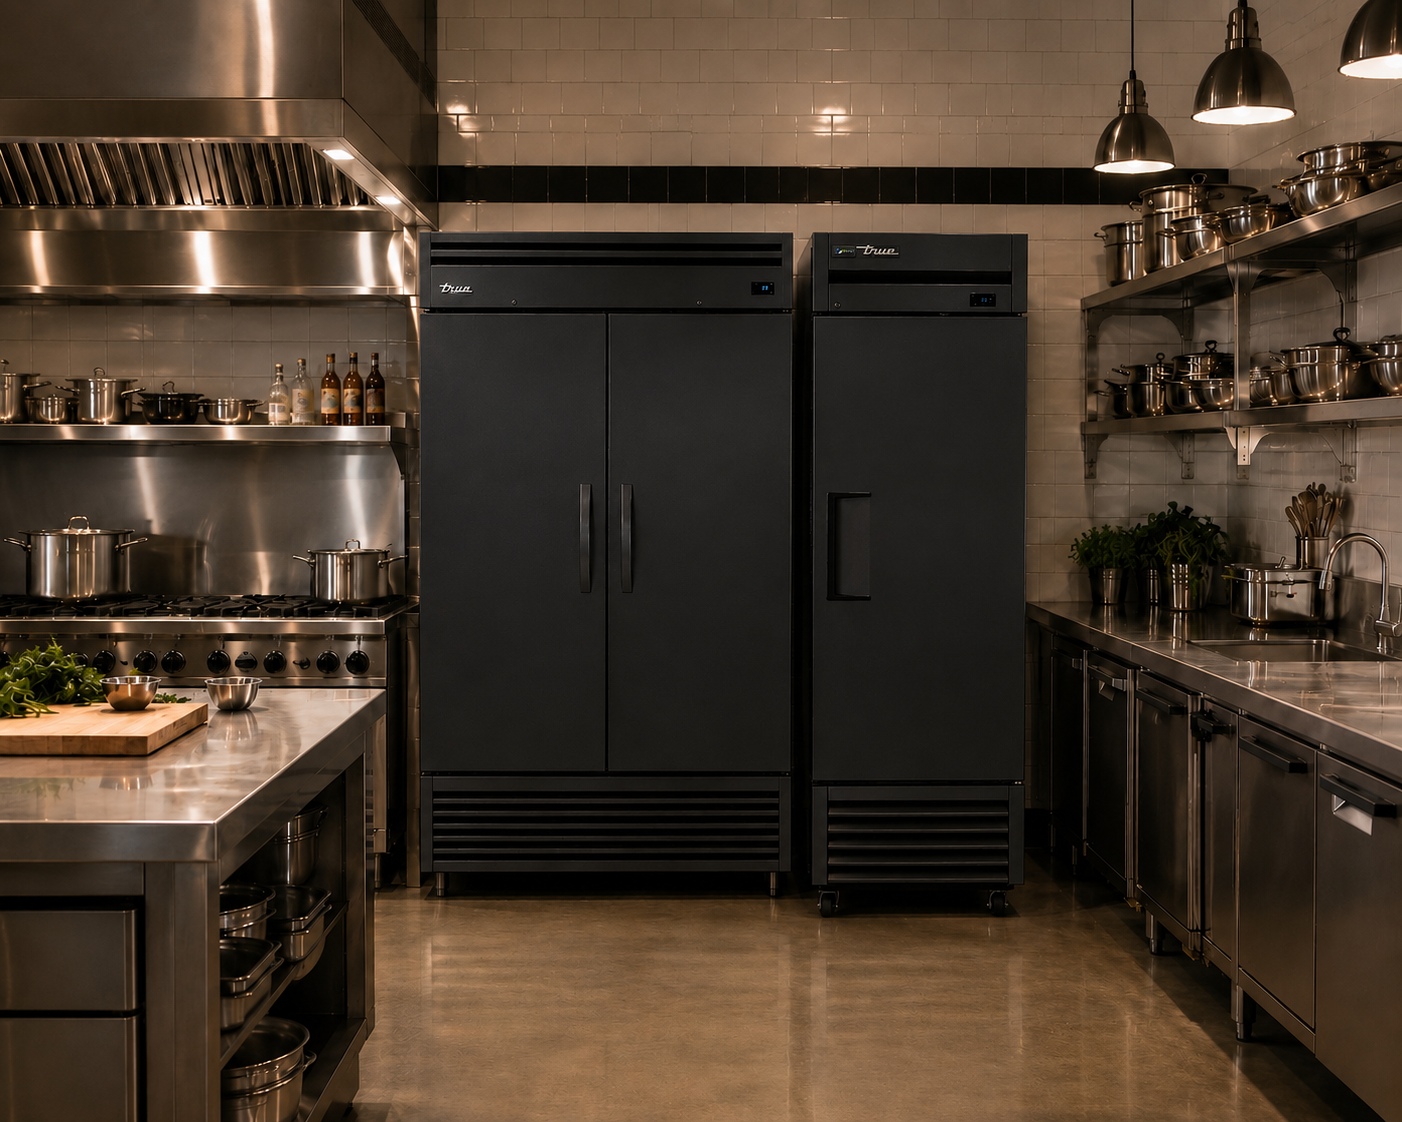
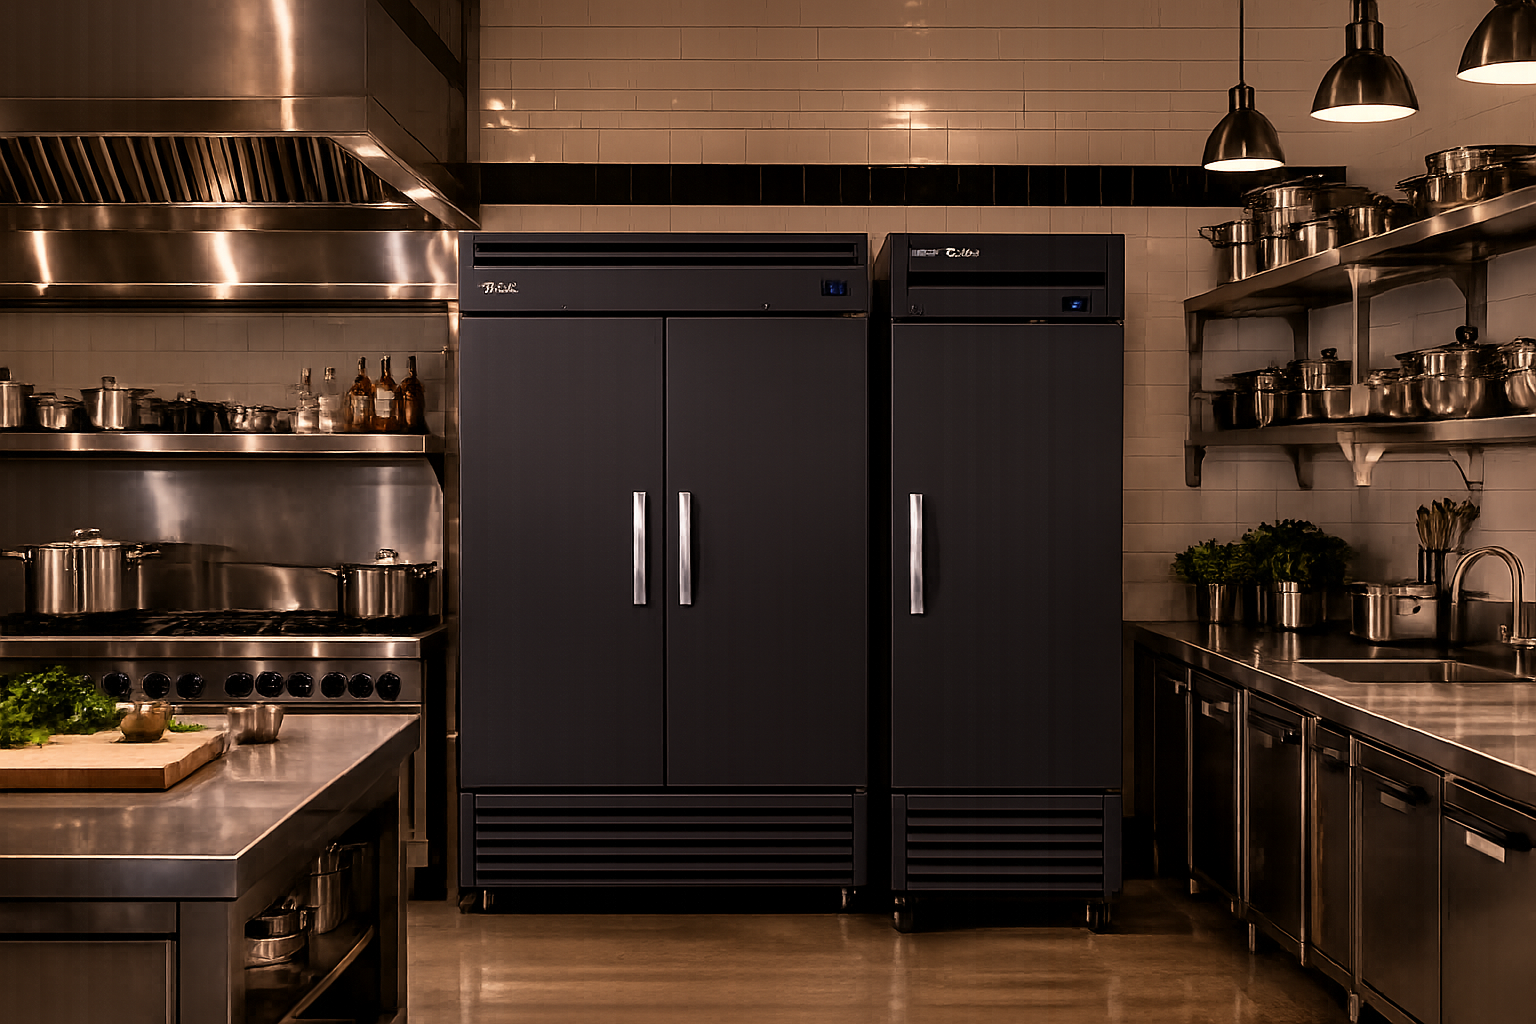
add clarity

diff --git a/main/app/truerefrigeration/page.tsx b/main/app/truerefrigeration/page.tsx
@@ -38,6 +38,7 @@ interface RalColour {
   hex: string;
   border: string;
   img: string;
+  description: string;
 }
 
 interface InquiryFormState {
@@ -130,14 +131,62 @@ const SECTORS: string[] = [
 
 /* ─── RAL COLOURS ─── */
 const RAL_COLOURS: RalColour[] = [
-  { name: "Stainless Steel", hex: STAINLESS_HEX, border: "#8A9BB0", img: "/true-custom.jpeg" },
-  { name: "Green",           hex: "#4E7B4B",      border: "#3A5E38",  img: "/cabinet-green.png"    },
-  { name: "Blue",            hex: "#1F4E8C",      border: "#163870",  img: "/cabinet-blue.png"     },
-  { name: "Pink",            hex: "#E8829A",      border: "#D0607C",  img: "/cabinet-pink.png"     },
-  { name: "Red",             hex: "#C8102E",      border: "#A00E26",  img: "/cabinet-red.png"      },
-  { name: "Orange",          hex: "#E8650A",      border: "#C05206",  img: "/cabinet-orange.png"   },
-  { name: "Silver",          hex: "#D8DCE0",      border: "#B0B7C0",  img: "/cabinet-silver.png"   },
-  { name: "Black",           hex: "#1A1A1A",      border: "#0A0A0A",  img: "/cabinet-black.png"    },
+  {
+    name: "Stainless Steel",
+    hex: STAINLESS_HEX,
+    border: "#8A9BB0",
+    img: "/true-custom.jpeg",
+    description: "The industry standard finish — brushed, durable, and timeless.",
+  },
+  {
+    name: "Green",
+    hex: "#4E7B4B",
+    border: "#3A5E38",
+    img: "/cabinet-green.png",
+    description: "A bold, natural tone for standout brand presence.",
+  },
+  {
+    name: "Blue",
+    hex: "#1F4E8C",
+    border: "#163870",
+    img: "/cabinet-blue.png",
+    description: "Cool and confident — a modern fit for contemporary kitchens.",
+  },
+  {
+    name: "Pink",
+    hex: "#E8829A",
+    border: "#D0607C",
+    img: "/cabinet-pink.png",
+    description: "A distinctive, vibrant finish for boutique concepts.",
+  },
+  {
+    name: "Red",
+    hex: "#C8102E",
+    border: "#A00E26",
+    img: "/cabinet-red.png",
+    description: "High-impact colour matched to bold brand identities.",
+  },
+  {
+    name: "Orange",
+    hex: "#E8650A",
+    border: "#C05206",
+    img: "/cabinet-orange.png",
+    description: "Warm and energetic — suited to fast-casual concepts.",
+  },
+  {
+    name: "Silver",
+    hex: "#D8DCE0",
+    border: "#B0B7C0",
+    img: "/cabinet-silver.png",
+    description: "Sleek and understated, with a premium finish.",
+  },
+  {
+    name: "Black",
+    hex: "#1A1A1A",
+    border: "#0A0A0A",
+    img: "/cabinet-black.png",
+    description: "Sophisticated matte-inspired tone for premium branding.",
+  },
 ];
 
 /* ─── INQUIRY MODAL ─── */
@@ -1395,7 +1444,7 @@ export default function TrueRefrigerationPage() {
           .tr-custom-mobile-img { display: none !important; }
         }
 
-        /* ── Bottom section: full-bleed cabinet image, no white border ── */
+        /* ── Bottom section: boxed colour photo card (left) + copy (right) ── */
         .tr-custom-bottom {
           background: #fff;
           display: grid;
@@ -1404,25 +1453,60 @@ export default function TrueRefrigerationPage() {
           align-items: stretch;
         }
 
-        /* Cabinet image: full-bleed, tall, no padding, no border-radius */
-        .tr-custom-img {
+        /* ── Boxed colour photo card — mirrors the chart box styling above ── */
+        .tr-custom-photo-wrap {
+          background: #fafafa;
+          padding: 48px;
+          display: flex;
+          align-items: center;
+          justify-content: center;
+        }
+        .tr-custom-photo-box {
+          width: 100%;
+          max-width: 440px;
+          border-radius: 6px;
+          overflow: hidden;
+          border: 1px solid ${BORDER};
+          background: #fff;
+          box-shadow: 0 12px 48px rgba(11,37,64,0.16);
+          display: flex;
+          flex-direction: column;
+          transition: box-shadow 0.25s;
+        }
+        .tr-custom-photo-frame {
           position: relative;
-          /* Portrait ratio — tall and impactful */
           aspect-ratio: 3 / 4;
-          min-height: 560px;
           overflow: hidden;
           background: #f4f4f4;
         }
-        .tr-custom-img-overlay {
-          position: absolute; bottom: 20px; left: 20px; z-index: 2; pointer-events: none;
+        .tr-custom-photo-caption {
+          display: flex;
+          align-items: center;
+          gap: 14px;
+          padding: 18px 22px 20px;
+          border-top: 1px solid ${BORDER};
+          background: #fff;
         }
-        .tr-custom-colour-pill {
-          font-size: 9px; font-weight: 700;
-          letter-spacing: 0.16em; text-transform: uppercase;
-          color: #fff; padding: 6px 16px; border-radius: 20px;
-          backdrop-filter: blur(6px);
-          border: 1px solid rgba(255,255,255,0.3);
-          transition: background 0.3s; display: inline-block;
+        .tr-custom-photo-swatch-dot {
+          width: 32px; height: 32px; border-radius: 50%;
+          flex-shrink: 0;
+          box-shadow: inset 0 0 0 1px rgba(0,0,0,0.06);
+          transition: background 0.3s, border-color 0.3s;
+        }
+        .tr-custom-photo-caption-text {
+          display: flex; flex-direction: column; gap: 3px; min-width: 0;
+        }
+        .tr-custom-photo-caption-label {
+          font-size: 8px; font-weight: 700;
+          letter-spacing: 0.22em; text-transform: uppercase;
+          color: ${RED};
+        }
+        .tr-custom-photo-caption-name {
+          font-size: 14px; font-weight: 800;
+          letter-spacing: -0.01em; color: ${NAVY};
+        }
+        .tr-custom-photo-caption-desc {
+          font-size: 11px; color: ${MUTED}; line-height: 1.5;
         }
 
         /* Copy col: padding, vertically centred */
@@ -1447,7 +1531,8 @@ export default function TrueRefrigerationPage() {
 
         @media (max-width: 820px) {
           .tr-custom-bottom { grid-template-columns: 1fr; }
-          .tr-custom-img { min-height: 400px; aspect-ratio: 4/3; }
+          .tr-custom-photo-wrap { padding: 28px 24px; }
+          .tr-custom-photo-box { max-width: 100%; }
           .tr-custom-copy { padding: 36px 24px; }
         }
 
@@ -1900,58 +1985,44 @@ export default function TrueRefrigerationPage() {
                   </p>
                 </div>
 
-                {/* Mobile-only: colour image preview between text and swatches */}
-                <div
-                  className="tr-custom-mobile-img"
-                  style={{
-                    display: "none",
-                    position: "relative",
-                    width: "100%",
-                    aspectRatio: "4/3",
-                    borderRadius: "4px",
-                    overflow: "hidden",
-                    border: "1px solid rgba(255,255,255,0.10)",
-                  }}
-                >
-                  {RAL_COLOURS.map((c) => (
-                    <Image
-                      key={c.name}
-                      src={c.img}
-                      alt={`Cabinet in ${c.name}`}
-                      fill
-                      style={{
-                        objectFit: "cover",
-                        objectPosition: "center",
-                        opacity: activeColor.name === c.name ? 1 : 0,
-                        transition: "opacity 0.35s ease",
-                      }}
-                    />
-                  ))}
-                  <div
-                    style={{
-                      position: "absolute",
-                      bottom: 14,
-                      left: 16,
-                      zIndex: 2,
-                    }}
-                  >
-                    <span
-                      style={{
-                        fontSize: "9px",
-                        fontWeight: 700,
-                        letterSpacing: "0.16em",
-                        textTransform: "uppercase",
-                        color: "#fff",
-                        padding: "5px 14px",
-                        borderRadius: "20px",
-                        backdropFilter: "blur(6px)",
-                        border: "1px solid rgba(255,255,255,0.3)",
-                        background: `${activeColor.hex}cc`,
-                        display: "inline-block",
-                      }}
+                {/* Mobile-only: boxed colour photo preview between text and swatches */}
+                <div className="tr-custom-mobile-img">
+                  <div className="tr-custom-photo-box">
+                    <div
+                      className="tr-custom-photo-frame"
+                      style={{ aspectRatio: "4/3" }}
                     >
-                      {activeColor.name}
-                    </span>
+                      {RAL_COLOURS.map((c) => (
+                        <Image
+                          key={c.name}
+                          src={c.img}
+                          alt={`Cabinet in ${c.name}`}
+                          fill
+                          className="tr-cabinet-img"
+                          style={{ opacity: activeColor.name === c.name ? 1 : 0 }}
+                        />
+                      ))}
+                    </div>
+                    <div className="tr-custom-photo-caption">
+                      <div
+                        className="tr-custom-photo-swatch-dot"
+                        style={{
+                          background: activeColor.hex,
+                          border: `2px solid ${activeColor.border}`,
+                        }}
+                      />
+                      <div className="tr-custom-photo-caption-text">
+                        <span className="tr-custom-photo-caption-label">
+                          Selected Finish
+                        </span>
+                        <span className="tr-custom-photo-caption-name">
+                          {activeColor.name}
+                        </span>
+                        <span className="tr-custom-photo-caption-desc">
+                          {activeColor.description}
+                        </span>
+                      </div>
+                    </div>
                   </div>
                 </div>
 
@@ -1994,27 +2065,43 @@ export default function TrueRefrigerationPage() {
               </div>
             </div>
 
-            {/* ── White bottom: full-bleed cabinet image + copy ── */}
+            {/* ── White bottom: boxed colour photo card + copy ── */}
             <div className="tr-custom-bottom">
-              {/* Full-bleed cabinet image — no padding, no gap, edge-to-edge */}
-              <div className="tr-custom-img">
-                {RAL_COLOURS.map((c) => (
-                  <Image
-                    key={c.name}
-                    src={c.img}
-                    alt={`Cabinet in ${c.name}`}
-                    fill
-                    className="tr-cabinet-img"
-                    style={{ opacity: activeColor.name === c.name ? 1 : 0 }}
-                  />
-                ))}
-                <div className="tr-custom-img-overlay">
-                  <span
-                    className="tr-custom-colour-pill"
-                    style={{ background: `${activeColor.hex}cc` }}
-                  >
-                    {activeColor.name}
-                  </span>
+              {/* Boxed cabinet photo card — image + caption panel, echoes the chart box above */}
+              <div className="tr-custom-photo-wrap">
+                <div className="tr-custom-photo-box">
+                  <div className="tr-custom-photo-frame">
+                    {RAL_COLOURS.map((c) => (
+                      <Image
+                        key={c.name}
+                        src={c.img}
+                        alt={`Cabinet in ${c.name}`}
+                        fill
+                        className="tr-cabinet-img"
+                        style={{ opacity: activeColor.name === c.name ? 1 : 0 }}
+                      />
+                    ))}
+                  </div>
+                  <div className="tr-custom-photo-caption">
+                    <div
+                      className="tr-custom-photo-swatch-dot"
+                      style={{
+                        background: activeColor.hex,
+                        border: `2px solid ${activeColor.border}`,
+                      }}
+                    />
+                    <div className="tr-custom-photo-caption-text">
+                      <span className="tr-custom-photo-caption-label">
+                        Selected Finish
+                      </span>
+                      <span className="tr-custom-photo-caption-name">
+                        {activeColor.name}
+                      </span>
+                      <span className="tr-custom-photo-caption-desc">
+                        {activeColor.description}
+                      </span>
+                    </div>
+                  </div>
                 </div>
               </div>
 

diff --git a/main/components/Footer.tsx b/main/components/Footer.tsx
@@ -8,6 +8,8 @@ const products = [
   { name: "Osaka 3 SC", href: "/products/osaka-3-sc" },
   { name: "Panama 3", href: "/products/panama-3" },
   { name: "Panama 3 SC", href: "/products/panama-3-sc" },
+  { name: "Bar Refrigeration", href: "/products/bar-refrigeration" },
+  { name: "Bar Refrigeration 1", href: "/products/bar-refrigeration-1" },
 ];
 
 const navLinks = [
